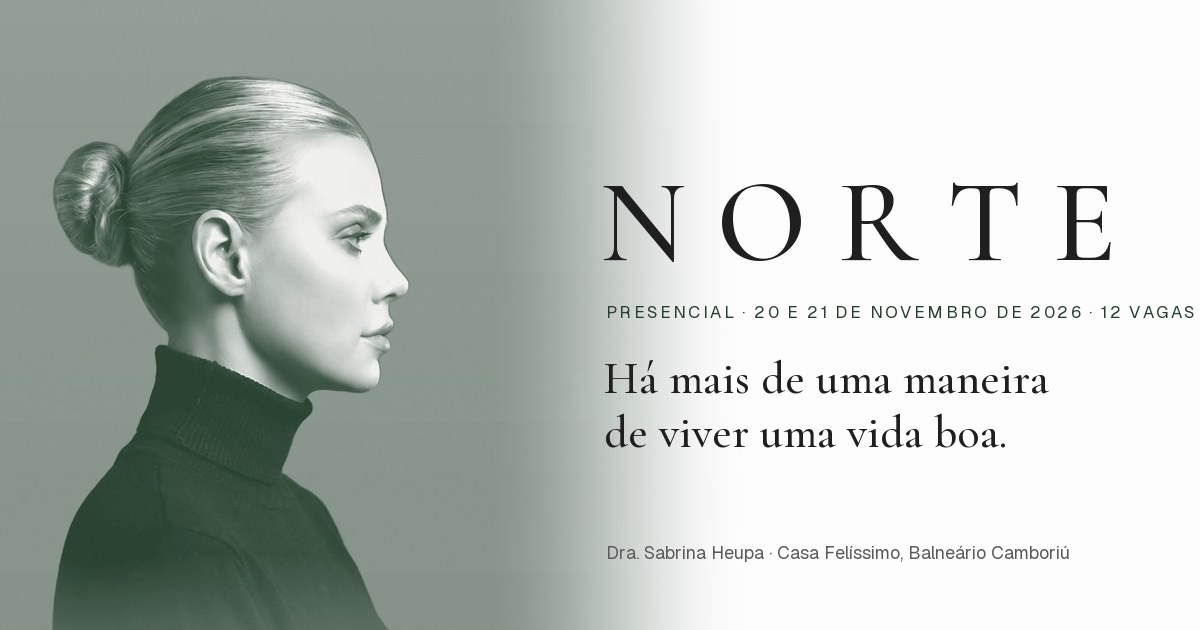
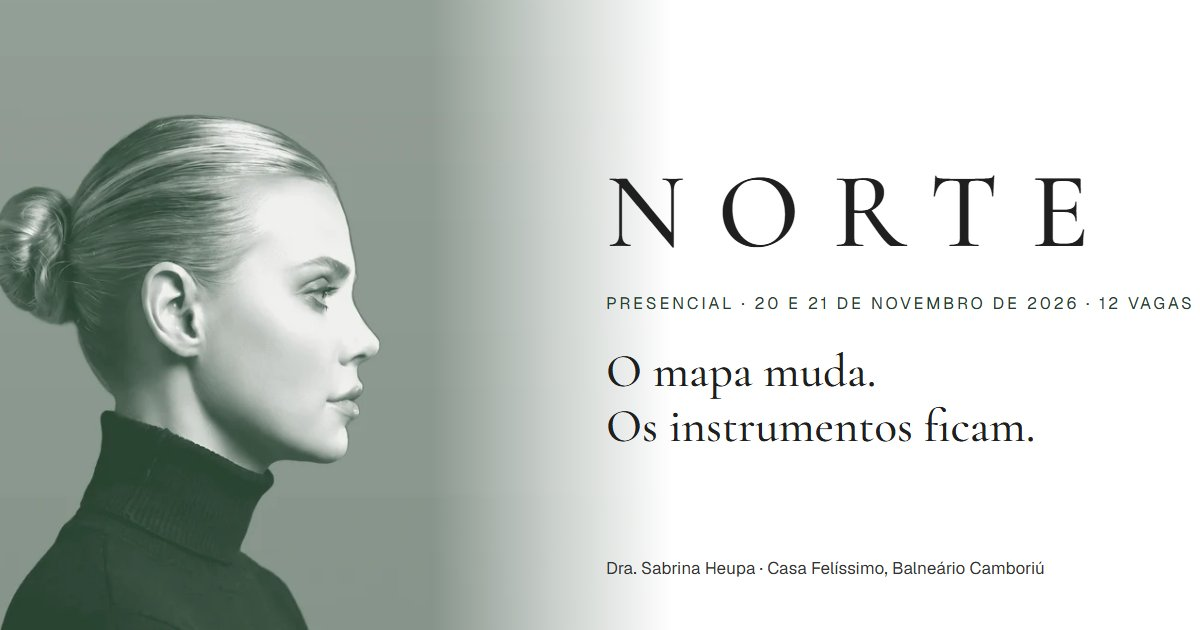
Cartao do WhatsApp com a frase nova

diff --git a/index.html b/index.html
@@ -9,11 +9,11 @@
     <meta name="robots" content="noindex, nofollow" />
     <meta name="description" content="Imersão presencial de dois dias, com doze pessoas, na Casa Felíssimo, em Balneário Camboriú. 20 e 21 de novembro de 2026, com a Dra. Sabrina Heupa." />
     <meta property="og:title" content="NORTE | Imersão presencial com Dra. Sabrina Heupa" />
-    <meta property="og:description" content="Há mais de uma maneira de viver uma vida boa. 20 e 21 de novembro de 2026, Casa Felíssimo, Balneário Camboriú." />
+    <meta property="og:description" content="O mapa muda. Os instrumentos ficam. 20 e 21 de novembro de 2026, Casa Felíssimo, Balneário Camboriú." />
     <meta property="og:type" content="website" />
     <meta property="og:url" content="https://sabrinaheupa.com.br/" />
-    <meta property="og:image" content="https://raw.githubusercontent.com/sabrinaheupa/sabrinaheupa.github.io/main/og/norte.jpg" />
-    <meta property="og:image:secure_url" content="https://raw.githubusercontent.com/sabrinaheupa/sabrinaheupa.github.io/main/og/norte.jpg" />
+    <meta property="og:image" content="https://raw.githubusercontent.com/sabrinaheupa/sabrinaheupa.github.io/main/og/norte.jpg?v=2" />
+    <meta property="og:image:secure_url" content="https://raw.githubusercontent.com/sabrinaheupa/sabrinaheupa.github.io/main/og/norte.jpg?v=2" />
     <meta property="og:image:type" content="image/jpeg" />
     <meta property="og:image:width" content="1200" />
     <meta property="og:image:height" content="630" />
@@ -21,9 +21,9 @@
     <meta property="og:site_name" content="NORTE" />
     <meta property="og:locale" content="pt_BR" />
     <meta name="twitter:card" content="summary_large_image" />
-    <meta name="twitter:image" content="https://raw.githubusercontent.com/sabrinaheupa/sabrinaheupa.github.io/main/og/norte.jpg" />
+    <meta name="twitter:image" content="https://raw.githubusercontent.com/sabrinaheupa/sabrinaheupa.github.io/main/og/norte.jpg?v=2" />
     <meta name="twitter:title" content="NORTE | Imersão presencial com Dra. Sabrina Heupa" />
-    <meta name="twitter:description" content="Há mais de uma maneira de viver uma vida boa. 20 e 21 de novembro de 2026." />
+    <meta name="twitter:description" content="O mapa muda. Os instrumentos ficam. 20 e 21 de novembro de 2026." />
     <title>NORTE | Imersão presencial com Dra. Sabrina Heupa</title>
     <style>html { background: #FFFFFF; } body { margin: 0; }</style>
     <script type="module" crossorigin src="/assets/index-C41ZmkcO.js"></script>

diff --git a/og/gerador-cartao.html b/og/gerador-cartao.html
@@ -1,0 +1,33 @@
+<!doctype html>
+<html lang="pt-BR">
+<head>
+<meta charset="utf-8">
+<link rel="stylesheet" href="file:///C:/Users/sabri/dev/norte-premium/node_modules/@fontsource/cormorant-garamond/500.css">
+<link rel="stylesheet" href="file:///C:/Users/sabri/dev/norte-premium/node_modules/@fontsource-variable/geist/index.css">
+<style>
+  html, body { margin: 0; padding: 0; }
+  body { width: 1200px; height: 630px; overflow: hidden; background: #FFFFFF; position: relative;
+         font-family: 'Geist Variable', Arial, sans-serif; color: #1F1F1F; -webkit-font-smoothing: antialiased; }
+  .foto { position: absolute; left: -70px; top: -210px; width: 1320px; height: 1260px; object-fit: cover; object-position: 55% 28%; }
+  .veu { position: absolute; inset: 0;
+         background: linear-gradient(90deg, rgba(255,255,255,0) 36%, rgba(255,255,255,0.55) 46%, #FFFFFF 56%); }
+  .texto { position: absolute; left: 606px; top: 158px; width: 560px; }
+  .marca { font-family: 'Cormorant Garamond', Georgia, serif; font-weight: 500; font-size: 108px; line-height: 1;
+           letter-spacing: 0.30em; margin: 0; color: #1F1F1F; white-space: nowrap; }
+  .etiqueta { margin: 26px 0 0; font-size: 16.5px; letter-spacing: 0.17em; text-transform: uppercase; color: #26402F; white-space: nowrap; }
+  .frase { font-family: 'Cormorant Garamond', Georgia, serif; font-weight: 500; font-size: 47px; line-height: 1.18;
+           margin: 30px 0 0; color: #1F1F1F; }
+  .rodape { position: absolute; left: 606px; top: 540px; font-size: 17px; color: #333333; white-space: nowrap; }
+</style>
+</head>
+<body>
+  <img class="foto" src="file:///C:/Users/sabri/dev/norte-premium/public/imagens/retrato-capa.webp" alt="">
+  <div class="veu"></div>
+  <div class="texto">
+    <p class="marca">NORTE</p>
+    <p class="etiqueta">Presencial · 20 e 21 de novembro de 2026 · 12 vagas</p>
+    <p class="frase">O mapa muda.<br>Os instrumentos ficam.</p>
+  </div>
+  <p class="rodape">Dra. Sabrina Heupa · Casa Felíssimo, Balneário Camboriú</p>
+</body>
+</html>
